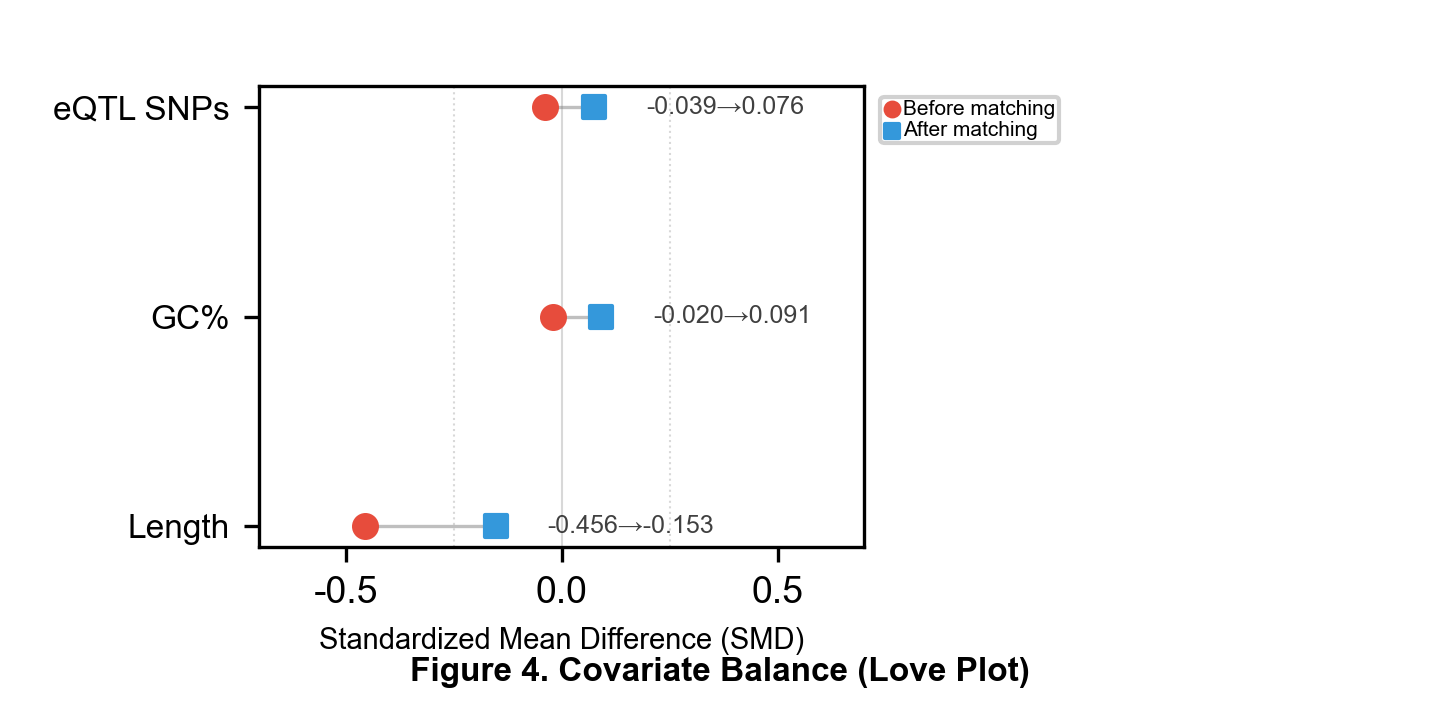
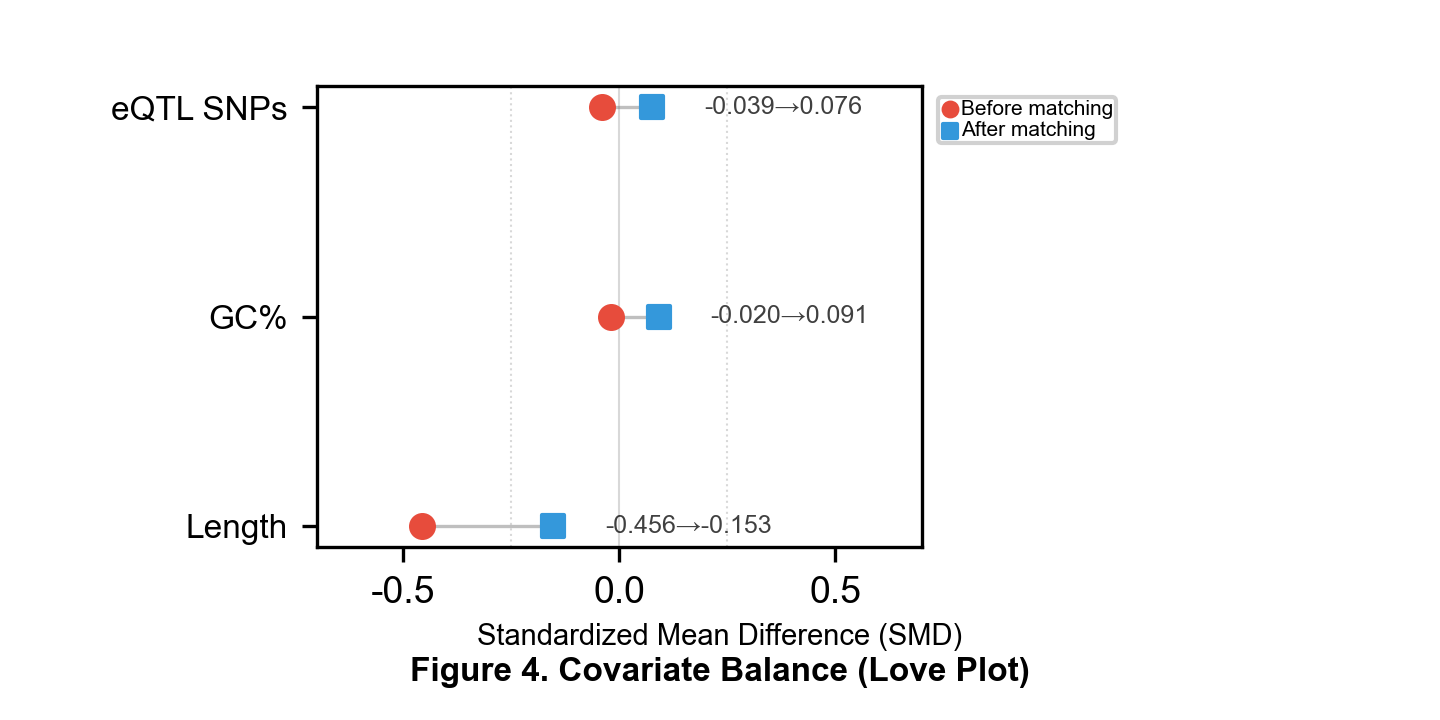
Figure4: shift plot right and center x-axis label above title

Changed region(s): [[0.0312, 0.0917, 0.5312, 0.7639], [0.3438, 0.0917, 0.7812, 0.7639], [0.2188, 0.7944, 0.6562, 0.9167]]

diff --git a/scripts/python/regenerate_figure4.py b/scripts/python/regenerate_figure4.py
@@ -113,7 +113,7 @@ def generate_figure4():
 
     # Plot
     fig, ax = plt.subplots(figsize=(4.80, 2.40))
-    fig.subplots_adjust(bottom=0.24, top=0.88, left=0.18, right=0.60)
+    fig.subplots_adjust(bottom=0.24, top=0.88, left=0.22, right=0.64)
     y = np.arange(len(params))
 
     ax.scatter(smd_before, y, c=C_BEFORE, marker='o', s=30, label='Before matching', zorder=5)
@@ -128,7 +128,7 @@ def generate_figure4():
 
     ax.set_yticks(y)
     ax.set_yticklabels(labels_short, fontsize=8)
-    ax.set_xlabel('Standardized Mean Difference (SMD)', fontsize=7)
+    ax.set_xlabel('', fontsize=7)  # x-label handled by fig.text for figure-level centering
     ax.set_xlim(-0.70, 0.70)
 
     # Legend: shrunk and placed in the upper-right corner outside the axes
@@ -143,6 +143,10 @@ def generate_figure4():
             text_x = 0.55
         ax.text(text_x, i, f'{b:.3f}→{a:.3f}',
                 va='center', fontsize=6, alpha=0.75)
+
+    # X-axis label centered at figure level, directly above the title
+    fig.text(0.5, 0.115, 'Standardized Mean Difference (SMD)',
+             fontsize=7, ha='center', va='center')
 
     # Title centered directly below the x-axis label
     fig.text(0.5, 0.045, 'Figure 4. Covariate Balance (Love Plot)',